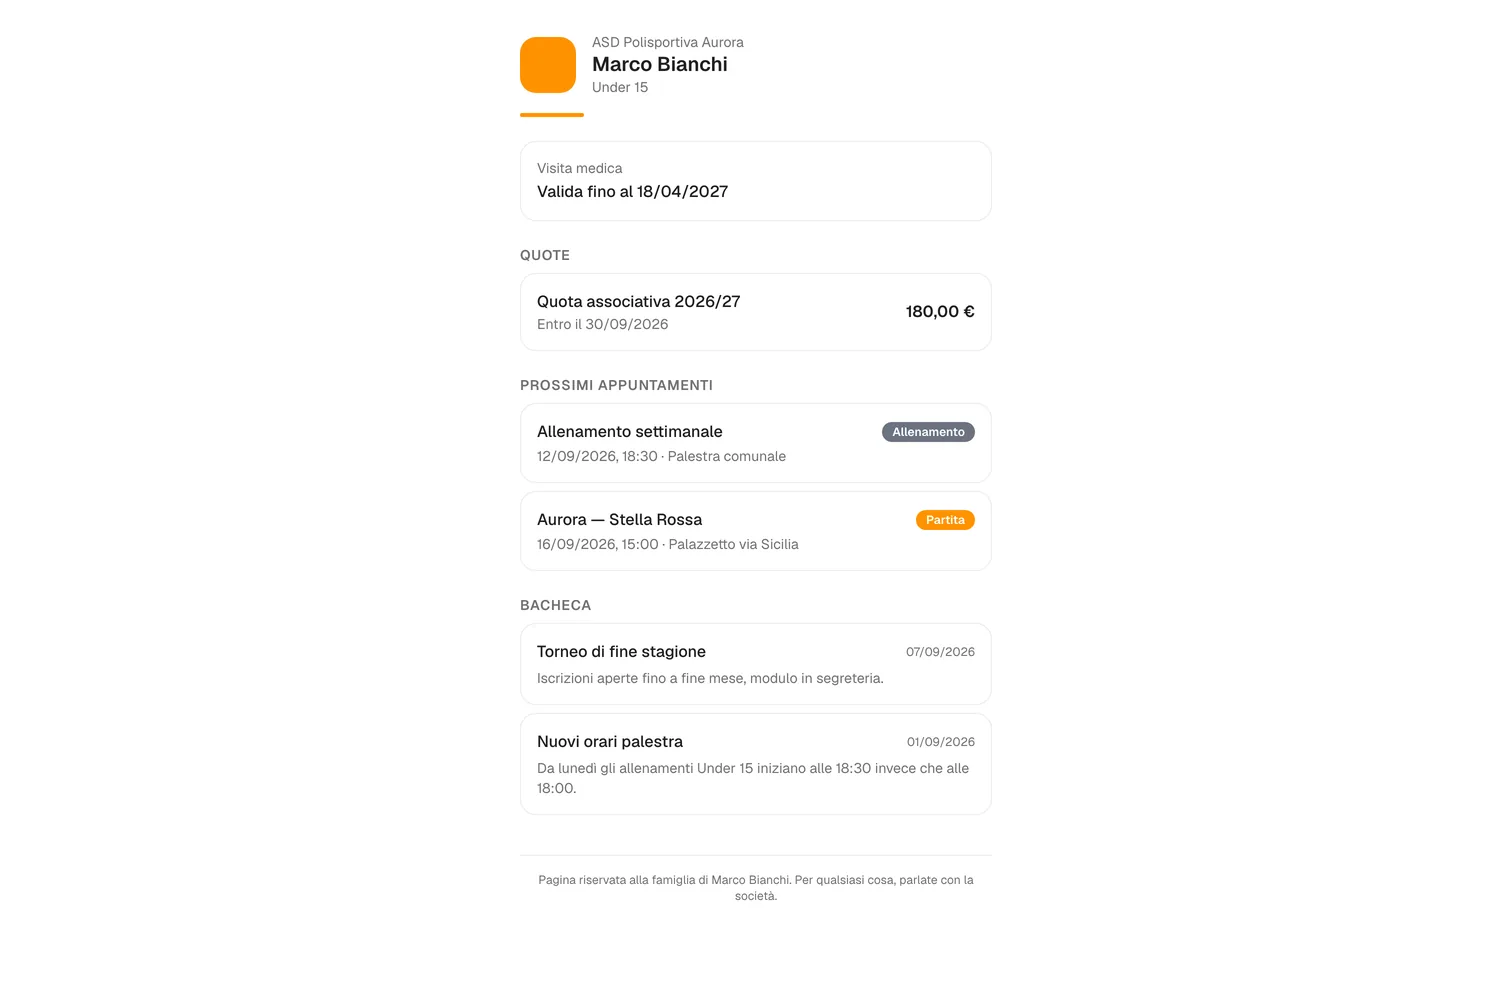
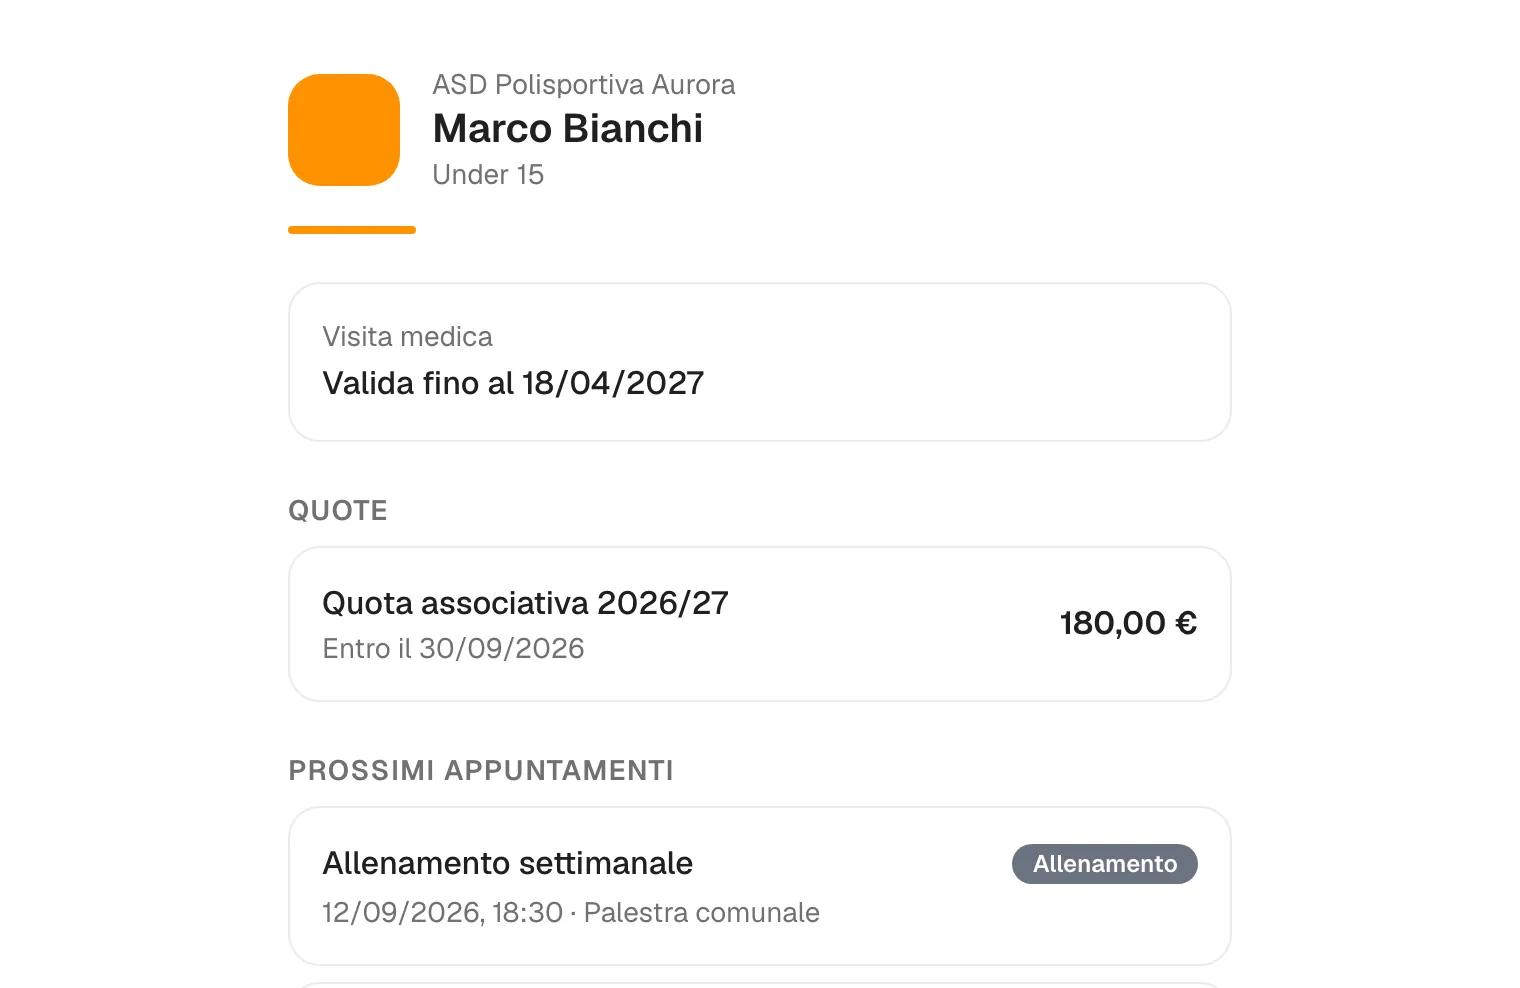
Frame every step on its content
Three steps were mostly background. The club's sign-up and family pages are
built to be read on a phone, so at 1512 they were a narrow column in a wide
white field: they are captured at the width they are designed for now. The
camera grid is one row of four tiles whatever the window, so it left half the
panel empty and is gone.

diff --git a/src/flows/asd/shots.ts b/src/flows/asd/shots.ts
@@ -10,7 +10,7 @@ import type { Shot } from '../ShotScene';
  */
 export const asdShots: Step<Shot>[] = [
   { id: 'tesserati', label: 'Tesserati', ms: 2600, state: { src: '/shots/asd/tesserati.webp', alt: 'I tesserati del club, con visite mediche e documenti', focus: { x: 0.21, y: 0.26, w: 0.5 } } },
-  { id: 'iscrizione', label: 'Iscrizione', ms: 2600, state: { src: '/shots/asd/iscrizione.webp', alt: "Il modulo d'iscrizione compilato dalla famiglia", focus: { x: 0.3, y: 0.1, w: 0.42 } } },
-  { id: 'famiglia', label: 'Famiglia', ms: 2400, state: { src: '/shots/asd/famiglia.webp', alt: 'Il portale della famiglia: quote, appuntamenti, bacheca', focus: { x: 0.28, y: 0.08, w: 0.45 } } },
+  { id: 'iscrizione', label: 'Iscrizione', ms: 2600, state: { src: '/shots/asd/iscrizione.webp', alt: "Il modulo d'iscrizione compilato dalla famiglia", focus: { x: 0.02, y: 0.02, w: 0.6 } } },
+  { id: 'famiglia', label: 'Famiglia', ms: 2400, state: { src: '/shots/asd/famiglia.webp', alt: 'Il portale della famiglia: quote, appuntamenti, bacheca', focus: { x: 0.02, y: 0.02, w: 0.6 } } },
   { id: 'quote', label: 'Quote', ms: 2400, state: { src: '/shots/asd/quote.webp', alt: 'Le quote e il loro incasso', focus: { x: 0.21, y: 0.2, w: 0.5 } } },
 ];

diff --git a/src/flows/ipcam/shots.ts b/src/flows/ipcam/shots.ts
@@ -9,7 +9,6 @@ import type { Shot } from '../ShotScene';
  * `focus` names the region that carries the step's meaning, in fractions of the capture.
  */
 export const ipcamShots: Step<Shot>[] = [
-  { id: 'grid', label: 'Cameras', ms: 2400, state: { src: '/shots/ipcam/grid.webp', alt: 'Le telecamere di casa, tutte in diretta nella stessa griglia', focus: { x: 0.19, y: 0.02, w: 0.45 } } },
   { id: 'live', label: 'Live', ms: 2600, state: { src: '/shots/ipcam/live.webp', alt: 'La diretta di una telecamera', focus: { x: 0.2, y: 0.02, w: 0.55 } } },
   { id: 'ptz', label: 'Pan / tilt', ms: 2400, state: { src: '/shots/ipcam/ptz.webp', alt: "I comandi che muovono l'obiettivo", focus: { x: 0.2, y: 0.58, w: 0.42 } } },
   { id: 'talk', label: 'Talk', ms: 2200, state: { src: '/shots/ipcam/talk.webp', alt: 'Il canale audio a due vie aperto verso la telecamera', focus: { x: 0.24, y: 0.58, w: 0.42 } } },

diff --git a/e2e/chapters.spec.ts b/e2e/chapters.spec.ts
@@ -1,7 +1,7 @@
 import { expect, test } from '@playwright/test';
 
 const chapters = [
-  { id: 'ipcam', shots: [0, 2, 4] },
+  { id: 'ipcam', shots: [0, 1, 3] },
   { id: 'asd', shots: [0, 1, 3] },
   { id: 'pastis', shots: [1, 2, 4] },
   { id: 'med', shots: [0, 2, 3] },
